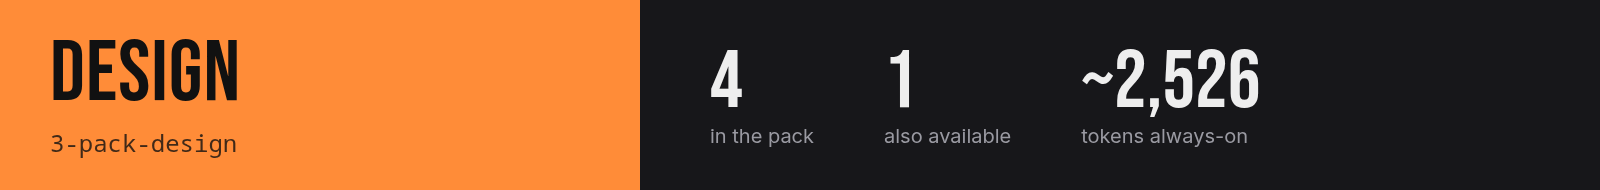
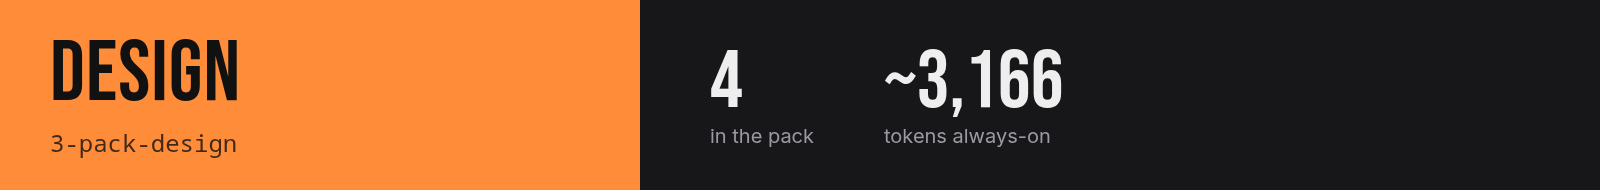
done

Changed region(s): [[0.5312, 0.2632, 0.8125, 0.6053], [0.5312, 0.6842, 0.7812, 0.7632]]

diff --git a/README.it.md b/README.it.md
@@ -1,0 +1,211 @@
+![skills](docs/it/banner.png)
+
+[English](README.md) · **Italiano**
+
+Un **marketplace** per Claude Code e Claude Desktop: un catalogo di plugin. Qui ci sono tutte le skill, i server MCP e gli strumenti che uso, divisi in 7 categorie. Ogni categoria ha un **pack** che installa l'essenziale in un colpo solo. Ogni plugin si installa anche da solo.
+
+Qui non c'è niente di copiato. Ogni voce punta al repo originale e segue l'ultima versione.
+
+## Installa: tu
+
+**Claude Code**
+
+```
+/plugin marketplace add giofornari/skills
+/plugin install 1-pack-fundamentals@giofornari
+```
+
+**Claude Desktop**: Customize > Plugins > Add marketplace > `giofornari/skills`, poi scegli un pack.
+
+Sfoglia tutto con `/plugin`. I pack sono le prime sette voci.
+
+## Installa: un agente
+
+Di' a Claude: *"Installa il marketplace `giofornari/skills` e il pack `<pack>`."* Oppure esegui:
+
+```
+claude plugin marketplace add giofornari/skills
+claude plugin install <plugin>@giofornari      # aggiungi --scope project per installare solo in un repo
+claude plugin list                             # verifica: <plugin>@giofornari risulta abilitato
+```
+
+Poi `/reload-plugins` o riavvia la sessione. I nomi dei plugin sono nelle tabelle qui sotto, oppure `claude plugin list --available --json`. Prima leggi i [Prerequisiti](#prerequisiti) per `graphify`, `camoufox`, `agent-reach` e `openmontage`.
+
+## Come funziona
+
+| Percorso | Ruolo |
+|---|---|
+| `.claude-plugin/marketplace.json` | Il catalogo e unica fonte di verità: prima i pack, poi i plugin per categoria |
+| `plugins/` | Solo ciò che è mio: i 7 manifest dei pack, `camoufox` (server MCP), `graphify` (skill di setup) |
+| `docs/` | Le immagini di questo README |
+
+Le voci sono di quattro tipi:
+
+- **Pack**: un plugin vuoto le cui `dependencies` sono i suoi membri. Installarlo li installa tutti.
+- **Plugin**: un puntatore a un repo originale.
+- **Skill estratta**: una sola skill presa da un repo grande, così costa ~20-130 token invece di 1.000+. Il repo intero resta disponibile (`mattpocock-skills`, `agent-skills`).
+- **Plugin locale**: vive in `plugins/`.
+
+**Token** è ciò che un plugin aggiunge a ogni sessione prima che tu lo usi, misurato con `claude plugin details`.
+
+![Marketplace map](docs/map.it.png)
+
+## Pack
+
+| Pack | Installa | Token |
+|---|---|---|
+| `1-pack-fundamentals` | 12 plugin | ~1.538 |
+| `2-pack-context-memory` | 4 plugin | ~3.696 |
+| `3-pack-design` | 4 plugin | ~3.166 |
+| `4-pack-design-advanced` | 4 plugin | ~1.481 |
+| `5-pack-learning` | 4 plugin | ~1.648 |
+| `6-pack-research` | 4 plugin | ~1.214 |
+| `7-pack-content-creation` | 4 plugin | ~19.030 |
+
+I plugin con tag `bonus` e i due plugin dei repo interi non fanno parte di nessun pack.
+
+## Plugin
+
+### Fundamentals
+
+![Fundamentals](docs/it/cat-1-fundamentals.png)
+
+| Plugin | Cosa fa | Carica | Token |
+|---|---|---|---|
+| [`superpowers`](https://github.com/obra/superpowers) | Framework di skill e metodo di sviluppo: brainstorming, piani, TDD, debug, review | 15 skill | ~706 |
+| [`andrej-karpathy-skills`](https://github.com/multica-ai/andrej-karpathy-skills) | Un CLAUDE.md di linee guida dalle note di Karpathy sugli errori tipici degli LLM nel codice | 1 skill | ~66 |
+| [`humanizer`](https://github.com/blader/humanizer) | Toglie dal testo i segni di scrittura generata dall'AI | 1 skill | ~90 |
+| [`ponytail`](https://github.com/DietrichGebert/ponytail) | Fa ragionare l'agente come il dev senior più pigro: minimo, niente over-engineering | 6 skill | ~430 |
+| [`grill-me`](https://github.com/mattpocock/skills/tree/HEAD/skills/productivity/grill-me) | Un'intervista implacabile per affinare un piano o un design | 1 skill | ~17 |
+| [`grill-with-docs`](https://github.com/mattpocock/skills/tree/HEAD/skills/engineering/grill-with-docs) | Intervista implacabile che crea anche i documenti (ADR e glossario) mentre procede | 1 skill | ~35 |
+| [`grilling`](https://github.com/mattpocock/skills/tree/HEAD/skills/productivity/grilling) | Interroga l'utente senza sconti su un piano, una decisione o un'idea | 1 skill | ~43 |
+| [`teach`](https://github.com/mattpocock/skills/tree/HEAD/skills/productivity/teach) | Insegna all'utente una nuova abilità o un concetto, dentro questo workspace | 1 skill | ~18 |
+| [`improve-codebase-architecture`](https://github.com/mattpocock/skills/tree/HEAD/skills/engineering/improve-codebase-architecture) | Cerca nel codice occasioni per approfondire i moduli, le presenta in un report HTML e poi le discute | 1 skill | ~46 |
+| [`triage`](https://github.com/mattpocock/skills/tree/HEAD/skills/engineering/triage) | Porta issue e PR esterne attraverso una macchina a stati di ruoli di triage, con brief pronti per gli agenti | 1 skill | ~38 |
+| [`retro`](https://github.com/mattpocock/skills/tree/HEAD/skills/engineering/retro) | Fa una retrospettiva su una sessione di coding | 1 skill | ~14 |
+| [`writing-for-agents`](https://github.com/mattpocock/skills/tree/HEAD/skills/productivity/writing-for-agents) | Come scrivere documenti pensati per gli agenti | 1 skill | ~35 |
+
+**Disponibili a parte** (fuori dal pack, si installano uno per uno):
+
+| Plugin | Cosa fa | Carica | Token |
+|---|---|---|---|
+| [`mattpocock-skills`](https://github.com/mattpocock/skills) | L'intero repo mattpocock/skills. Il pack installa solo le skill estratte | 27 skill | ~1.169 |
+| [`interview-me`](https://github.com/addyosmani/agent-skills/tree/HEAD/skills/interview-me) | Fa emergere ciò che l'utente vuole davvero, non ciò che pensa di dover volere | 1 skill | ~128 |
+| [`idea-refine`](https://github.com/addyosmani/agent-skills/tree/HEAD/skills/idea-refine) | Trasforma idee grezze in concetti netti e attuabili, con pensiero divergente e convergente | 1 skill | ~90 |
+| [`debugging-and-error-recovery`](https://github.com/addyosmani/agent-skills/tree/HEAD/skills/debugging-and-error-recovery) | Guida un debug sistematico fino alla causa radice | 1 skill | ~95 |
+| [`shipping-and-launch`](https://github.com/addyosmani/agent-skills/tree/HEAD/skills/shipping-and-launch) | Prepara i lanci in produzione | 1 skill | ~78 |
+| [`agent-skills`](https://github.com/addyosmani/agent-skills) | L'intero repo addyosmani/agent-skills: skill di ingegneria di livello produzione | 34 skill | ~2.947 |
+
+### Context & Memory
+
+![Context & Memory](docs/it/cat-2-context-memory.png)
+
+| Plugin | Cosa fa | Carica | Token |
+|---|---|---|---|
+| [`honcho`](https://www.npmjs.com/package/@honcho-ai/claude-honcho) | Memoria persistente per le sessioni di Claude Code con Honcho | 7 skill + MCP | ~167 |
+| [`session-memory`](https://github.com/thedotmack/claude-mem/tree/HEAD/plugin) | claude-mem di thedotmack: cattura, comprime e reinietta ciò che l'agente ha fatto tra una sessione e l'altra | 30 skill + MCP | ~2.127 |
+| [`caveman`](https://github.com/JuliusBrussee/caveman) | Modalità di output telegrafico e strumenti per risparmiare token | 23 skill | ~1.366 |
+| [`graphify`](./plugins/graphify) | Installa Graphify, la CLI che trasforma il codice in un grafo di conoscenza, con il suo installer ufficiale | 1 skill | ~36 |
+
+### Design
+
+![Design](docs/it/cat-3-design.png)
+
+| Plugin | Cosa fa | Carica | Token |
+|---|---|---|---|
+| [`impeccable`](https://github.com/pbakaus/impeccable/tree/HEAD/plugin) | Vocabolario di design per gli agenti: guida con rifinitura e coraggio | 1 skill | ~312 |
+| [`taste-skill`](https://github.com/Leonxlnx/taste-skill) | Direzione artistica per siti, pagine prodotto e dashboard (taste-skill v2) | 1 skill | ~243 |
+| [`emil-kowalski-skills`](https://github.com/emilkowalski/skills) | Le skill di Emil Kowalski per designer e ingegneri: animazioni, rifinitura UI, design engineering | 16 skill | ~1.902 |
+| [`ui-ux-pro-max`](https://github.com/nextlevelbuilder/ui-ux-pro-max-skill) | Intelligenza di design: stili, palette, tipografia e linee guida UX consultabili | 7 skill | ~709 |
+
+### Design Advanced
+
+![Design Advanced](docs/it/cat-4-design-advanced.png)
+
+| Plugin | Cosa fa | Carica | Token |
+|---|---|---|---|
+| [`threejs-skills`](https://github.com/CloudAI-X/threejs-skills) | Three.js: scena, geometrie, materiali, shader, animazione, postprocessing, React Three Fiber | 13 skill | ~1.034 |
+| [`ux-heuristics`](https://github.com/wondelai/skills/tree/HEAD/ux-heuristics) | Valuta e migliora l'usabilità di un'interfaccia con l'analisi euristica | 1 skill | ~157 |
+| [`steve-jobs-design-review`](https://github.com/wondelai/skills/tree/HEAD/steve-jobs-design-review) | Rivede design, prodotti e funzioni con gli standard di Steve Jobs: semplicità spietata, focus, eccellenza end-to-end | 1 skill | ~221 |
+| [`hallmark`](https://github.com/Nutlope/hallmark/tree/HEAD/skills) | Skill di design contro l'estetica anonima dell'AI | 1 skill | ~69 |
+
+### Learning
+
+![Learning](docs/it/cat-5-learning.png)
+
+| Plugin | Cosa fa | Carica | Token |
+|---|---|---|---|
+| [`understand-anything`](https://github.com/Egonex-AI/Understand-Anything/tree/HEAD/understand-anything-plugin) | Trasforma qualsiasi codebase in un grafo di conoscenza interattivo da esplorare e interrogare | 9 skill | ~870 |
+| [`anatomy`](https://github.com/wheresryan22/anatomy) | Illustrazioni isometriche interattive e dettagliate | 1 skill | ~259 |
+| [`ppt-master`](https://github.com/hugohe3/ppt-master/tree/HEAD/skills) | Trasforma documenti o argomenti in presentazioni PowerPoint native | 1 skill | ~139 |
+| [`diagram-design`](https://github.com/cathrynlavery/diagram-design) | Design editoriale dei diagrammi | 7 skill | ~380 |
+
+**Disponibili a parte** (fuori dal pack, si installano uno per uno):
+
+| Plugin | Cosa fa | Carica | Token |
+|---|---|---|---|
+| [`i-have-adhd`](https://github.com/ayghri/i-have-adhd) | Evita che l'agente seppellisca la risposta: risposte adatte all'ADHD | 1 skill | ~67 |
+| [`academic-pptx-skill`](https://github.com/Gabberflast/academic-pptx-skill) | Presentazioni accademiche (talk, seminari, tesi): titoli d'azione, argomento strutturato, standard di citazione | 1 skill | ~205 |
+| [`education-agent-skills`](https://github.com/GarethManning/education-agent-skills) | 165 skill basate su evidenze per insegnanti, dirigenti scolastici ed EdTech: pedagogia, scienze dell'apprendimento, curricolo, valutazione | 165 skill | ~10.262 |
+
+### Research
+
+![Research](docs/it/cat-6-research.png)
+
+| Plugin | Cosa fa | Carica | Token |
+|---|---|---|---|
+| [`firecrawl`](https://github.com/firecrawl/firecrawl-claude-plugin) | Firecrawl: scrape, crawl, ricerca ed estrazione dal web come dati pronti per gli LLM | 3 skill + MCP | ~180 |
+| [`exa`](https://github.com/exa-labs/exa-mcp-server) | Ricerca web, deep research ed estrazione di contenuti con Exa | 2 skill + MCP | ~134 |
+| [`tavily`](https://github.com/tavily-ai/skills) | Ricerca, estrazione, crawl e research con Tavily | 8 skill | ~900 |
+| [`camoufox`](./plugins/camoufox) | Camoufox MCP: navigazione con Firefox anti-rilevamento (navigate, content, screenshot, click, fill, evaluate) | MCP | ~0 |
+
+**Disponibili a parte** (fuori dal pack, si installano uno per uno):
+
+| Plugin | Cosa fa | Carica | Token |
+|---|---|---|---|
+| [`last30days`](https://github.com/mvanhorn/last30days-skill) | Ricerca qualsiasi argomento su Reddit, X, YouTube e HN negli ultimi 30 giorni | 1 skill | ~67 |
+| [`career-ops`](https://github.com/career-ops-hq/career-ops) | Agente AI open source per la ricerca di lavoro | 1 skill | ~75 |
+
+### Content Creation
+
+![Content Creation](docs/it/cat-7-content-creation.png)
+
+| Plugin | Cosa fa | Carica | Token |
+|---|---|---|---|
+| [`openmontage`](https://github.com/calesthio/OpenMontage) | Produzione video agentica OpenMontage: le sue 91 skill. La pipeline completa richiede il progetto clonato | 91 skill | ~7.762 |
+| [`agent-reach`](https://github.com/Panniantong/Agent-Reach) | Permette all'agente di leggere e cercare su internet attraverso più piattaforme. Serve la CLI Agent-Reach | 1 skill | ~88 |
+| [`hyperframes`](https://github.com/heygen-com/hyperframes) | Scrivi HTML, renderizza video: tutte le skill HyperFrames in un solo bundle | 7 skill | ~551 |
+| [`marketing-skills`](https://github.com/coreyhaines31/marketingskills) | Skill di marketing: CRO, copywriting, SEO e altro | 52 skill | ~10.629 |
+
+## Prerequisiti
+
+- `graphify`: serve `uv`. La sua skill installa la CLI con l'installer di Graphify.
+- `camoufox`: serve `uv`. Scarica il browser una volta con `uvx camoufox fetch`.
+- `agent-reach`: installa la CLI dalla [guida di installazione](https://raw.githubusercontent.com/Panniantong/Agent-Reach/main/docs/install.md). Il pacchetto PyPI con lo stesso nome è un altro progetto.
+- `openmontage`: carica solo le skill. La pipeline completa richiede il progetto clonato (Python 3.10+, FFmpeg).
+- `exa`, `firecrawl`, `tavily`: al primo uso servono una tua API key o un login.
+- `caveman`, `hyperframes`: l'installazione del plugin salta le dipendenze Node, quindi installale a mano quando uno strumento le chiede.
+
+## Aggiornamenti
+
+Nessuna sorgente è bloccata e nessun manifest imposta una `version`, quindi ogni release o commit upstream conta come aggiornamento.
+
+- Claude Code: aggiungi `"autoUpdate": true` al marketplace in `~/.claude/settings.json`:
+
+  ```json
+  {
+    "extraKnownMarketplaces": {
+      "giofornari": {
+        "source": { "source": "github", "repo": "giofornari/skills" },
+        "autoUpdate": true
+      }
+    }
+  }
+  ```
+
+  A mano: `claude plugin marketplace update giofornari`, poi `claude plugin update <plugin>@giofornari`. Gli aggiornamenti si applicano alla sessione successiva o dopo `/reload-plugins`.
+- Claude Desktop: Customize > Plugins, attiva **Sync automatically** per questo marketplace.
+
+## Licenze
+
+Ogni plugin mantiene la licenza e gli autori originali. `openmontage` è AGPL-3.0, `education-agent-skills` è CC BY-SA 4.0 e `andrej-karpathy-skills` non ne dichiara una. Il contenuto originale di questo repo (manifest, server `camoufox`, skill `graphify`) è MIT.

diff --git a/README.md b/README.md
@@ -1,5 +1,7 @@
 ![skills](docs/banner.png)
 
+**English** · [Italiano](README.it.md)
+
 A Claude Code and Claude Desktop **marketplace**: a catalog of plugins. This one holds every skill, MCP server and tool I use, sorted into 7 categories. Each category has a **pack** that installs the essentials in one step. Every plugin also installs on its own.
 
 Nothing is copied here. Each entry points at its upstream repo and follows its latest version.
@@ -54,7 +56,7 @@ Entries come in four kinds:
 |---|---|---|
 | `1-pack-fundamentals` | 12 plugins | ~1,538 |
 | `2-pack-context-memory` | 4 plugins | ~3,696 |
-| `3-pack-design` | 4 plugins | ~2,526 |
+| `3-pack-design` | 4 plugins | ~3,166 |
 | `4-pack-design-advanced` | 4 plugins | ~1,481 |
 | `5-pack-learning` | 4 plugins | ~1,648 |
 | `6-pack-research` | 4 plugins | ~1,214 |
@@ -114,12 +116,6 @@ Plugins tagged `bonus` and the two full-repo plugins belong to no pack.
 | [`impeccable`](https://github.com/pbakaus/impeccable/tree/HEAD/plugin) | Design vocabulary for coding agents: steer with polish and boldness | 1 skill | ~312 |
 | [`taste-skill`](https://github.com/Leonxlnx/taste-skill) | Art direction for websites, product pages and dashboards (taste-skill v2) | 1 skill | ~243 |
 | [`emil-kowalski-skills`](https://github.com/emilkowalski/skills) | Emil Kowalski's skills for designers and engineers: animation, UI polish, design engineering | 16 skills | ~1,902 |
-| [`hallmark`](https://github.com/Nutlope/hallmark/tree/HEAD/skills) | Anti-AI-slop design skill | 1 skill | ~69 |
-
-**Also available** (not in the pack, install one by one):
-
-| Plugin | What it does | Loads | Tokens |
-|---|---|---|---|
 | [`ui-ux-pro-max`](https://github.com/nextlevelbuilder/ui-ux-pro-max-skill) | Design intelligence: searchable styles, palettes, typography and UX guidelines | 7 skills | ~709 |
 
 ### Design Advanced
@@ -149,6 +145,8 @@ Plugins tagged `bonus` and the two full-repo plugins belong to no pack.
 | Plugin | What it does | Loads | Tokens |
 |---|---|---|---|
 | [`i-have-adhd`](https://github.com/ayghri/i-have-adhd) | Stops the agent burying the answer: ADHD-friendly responses | 1 skill | ~67 |
+| [`academic-pptx-skill`](https://github.com/Gabberflast/academic-pptx-skill) | Academic presentations (talks, seminars, thesis defenses): action titles, structured argument, citation standards | 1 skill | ~205 |
+| [`education-agent-skills`](https://github.com/GarethManning/education-agent-skills) | 165 evidence-grounded skills for teachers, school leaders and EdTech: pedagogy, learning science, curriculum, assessment | 165 skills | ~10,262 |
 
 ### Research
 
@@ -210,4 +208,4 @@ No source is pinned and no manifest sets a `version`, so every upstream release 
 
 ## Licenses
 
-Each plugin keeps its upstream license and authors. `openmontage` is AGPL-3.0 and `andrej-karpathy-skills` declares none. The original content here (manifests, `camoufox` server, `graphify` skill) is MIT.
+Each plugin keeps its upstream license and authors. `openmontage` is AGPL-3.0, `education-agent-skills` is CC BY-SA 4.0 and `andrej-karpathy-skills` declares none. The original content here (manifests, `camoufox` server, `graphify` skill) is MIT.

diff --git a/CLAUDE.md b/CLAUDE.md
@@ -15,4 +15,4 @@ Claude Code and Desktop marketplace `giofornari`. `.claude-plugin/marketplace.js
 - Keep sources unpinned and set no `version` in `marketplace.json` or any `plugin.json`: updates then follow upstream. The validator's "No version specified" warnings are expected.
 - Pack names start with a digit (`1-pack-…`): the `/plugin` list sorts alphabetically, and digits sort first.
 - Packs hold dependencies only. Local code lives in `plugins/`: the pack manifests, `camoufox`, `graphify`.
-- The README tables and every `docs/*.png` mirror `marketplace.json` (names, descriptions, categories, token costs). Update them in the same commit.
+- `README.md`, `README.it.md` and every PNG in `docs/` (`docs/it/` and `map.it.png` are the Italian set) mirror `marketplace.json`: names, descriptions, categories, token costs. A new plugin needs its Italian description too. Update all of them in the same commit.
